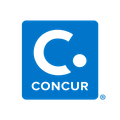
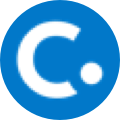
APF-953-update concur connector image. \ Signed-off-by: Sudharsan Sathiamoorthy<ssathiamoort@vmware.com>

diff --git a/connectors/concur/src/test/java/com/vmware/connectors/concur/ConcurControllerTests.java b/connectors/concur/src/test/java/com/vmware/connectors/concur/ConcurControllerTests.java
@@ -99,7 +99,7 @@ public class ConcurControllerTests extends ControllerTestsBase {
     public void testGetImage() throws Exception {
         perform(get("/images/connector.png"))
                 .andExpect(status().isOk())
-                .andExpect(header().longValue(CONTENT_LENGTH, 7601))
+                .andExpect(header().longValue(CONTENT_LENGTH, 9339))
                 .andExpect(header().string(CONTENT_TYPE, IMAGE_PNG_VALUE))
                 .andExpect((content().bytes(bytesFromFile("/static/images/connector.png"))));
     }
